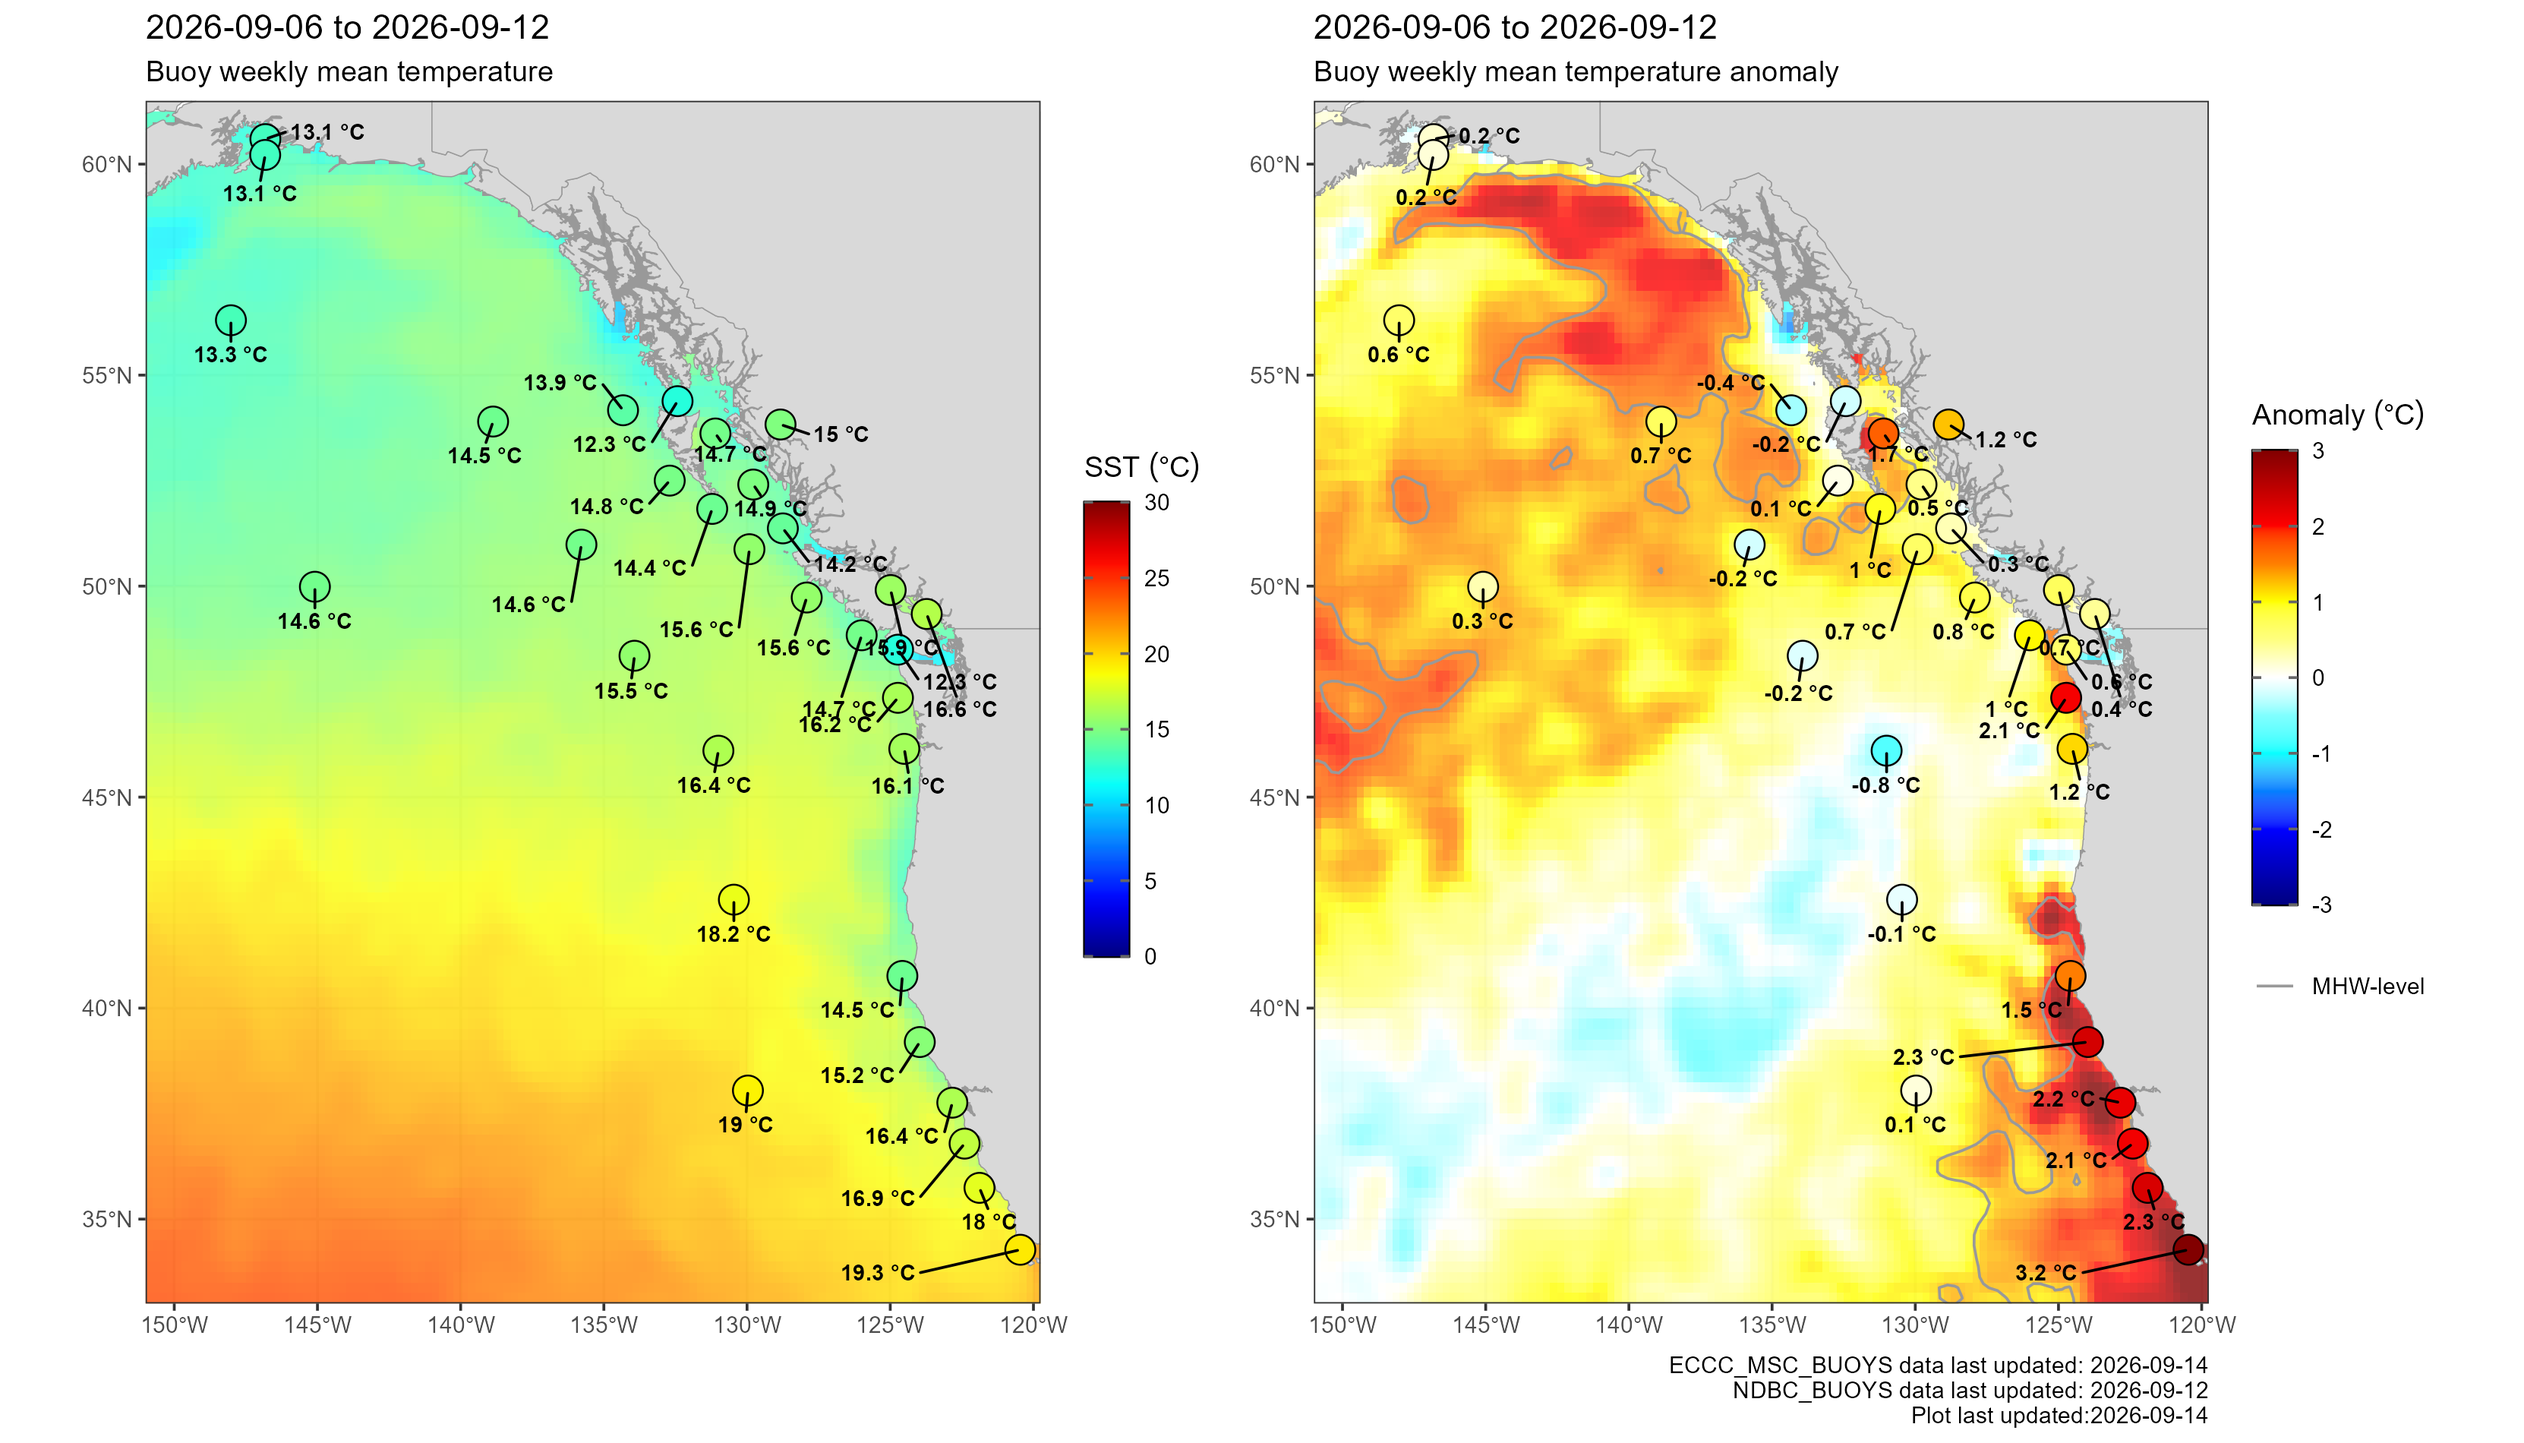
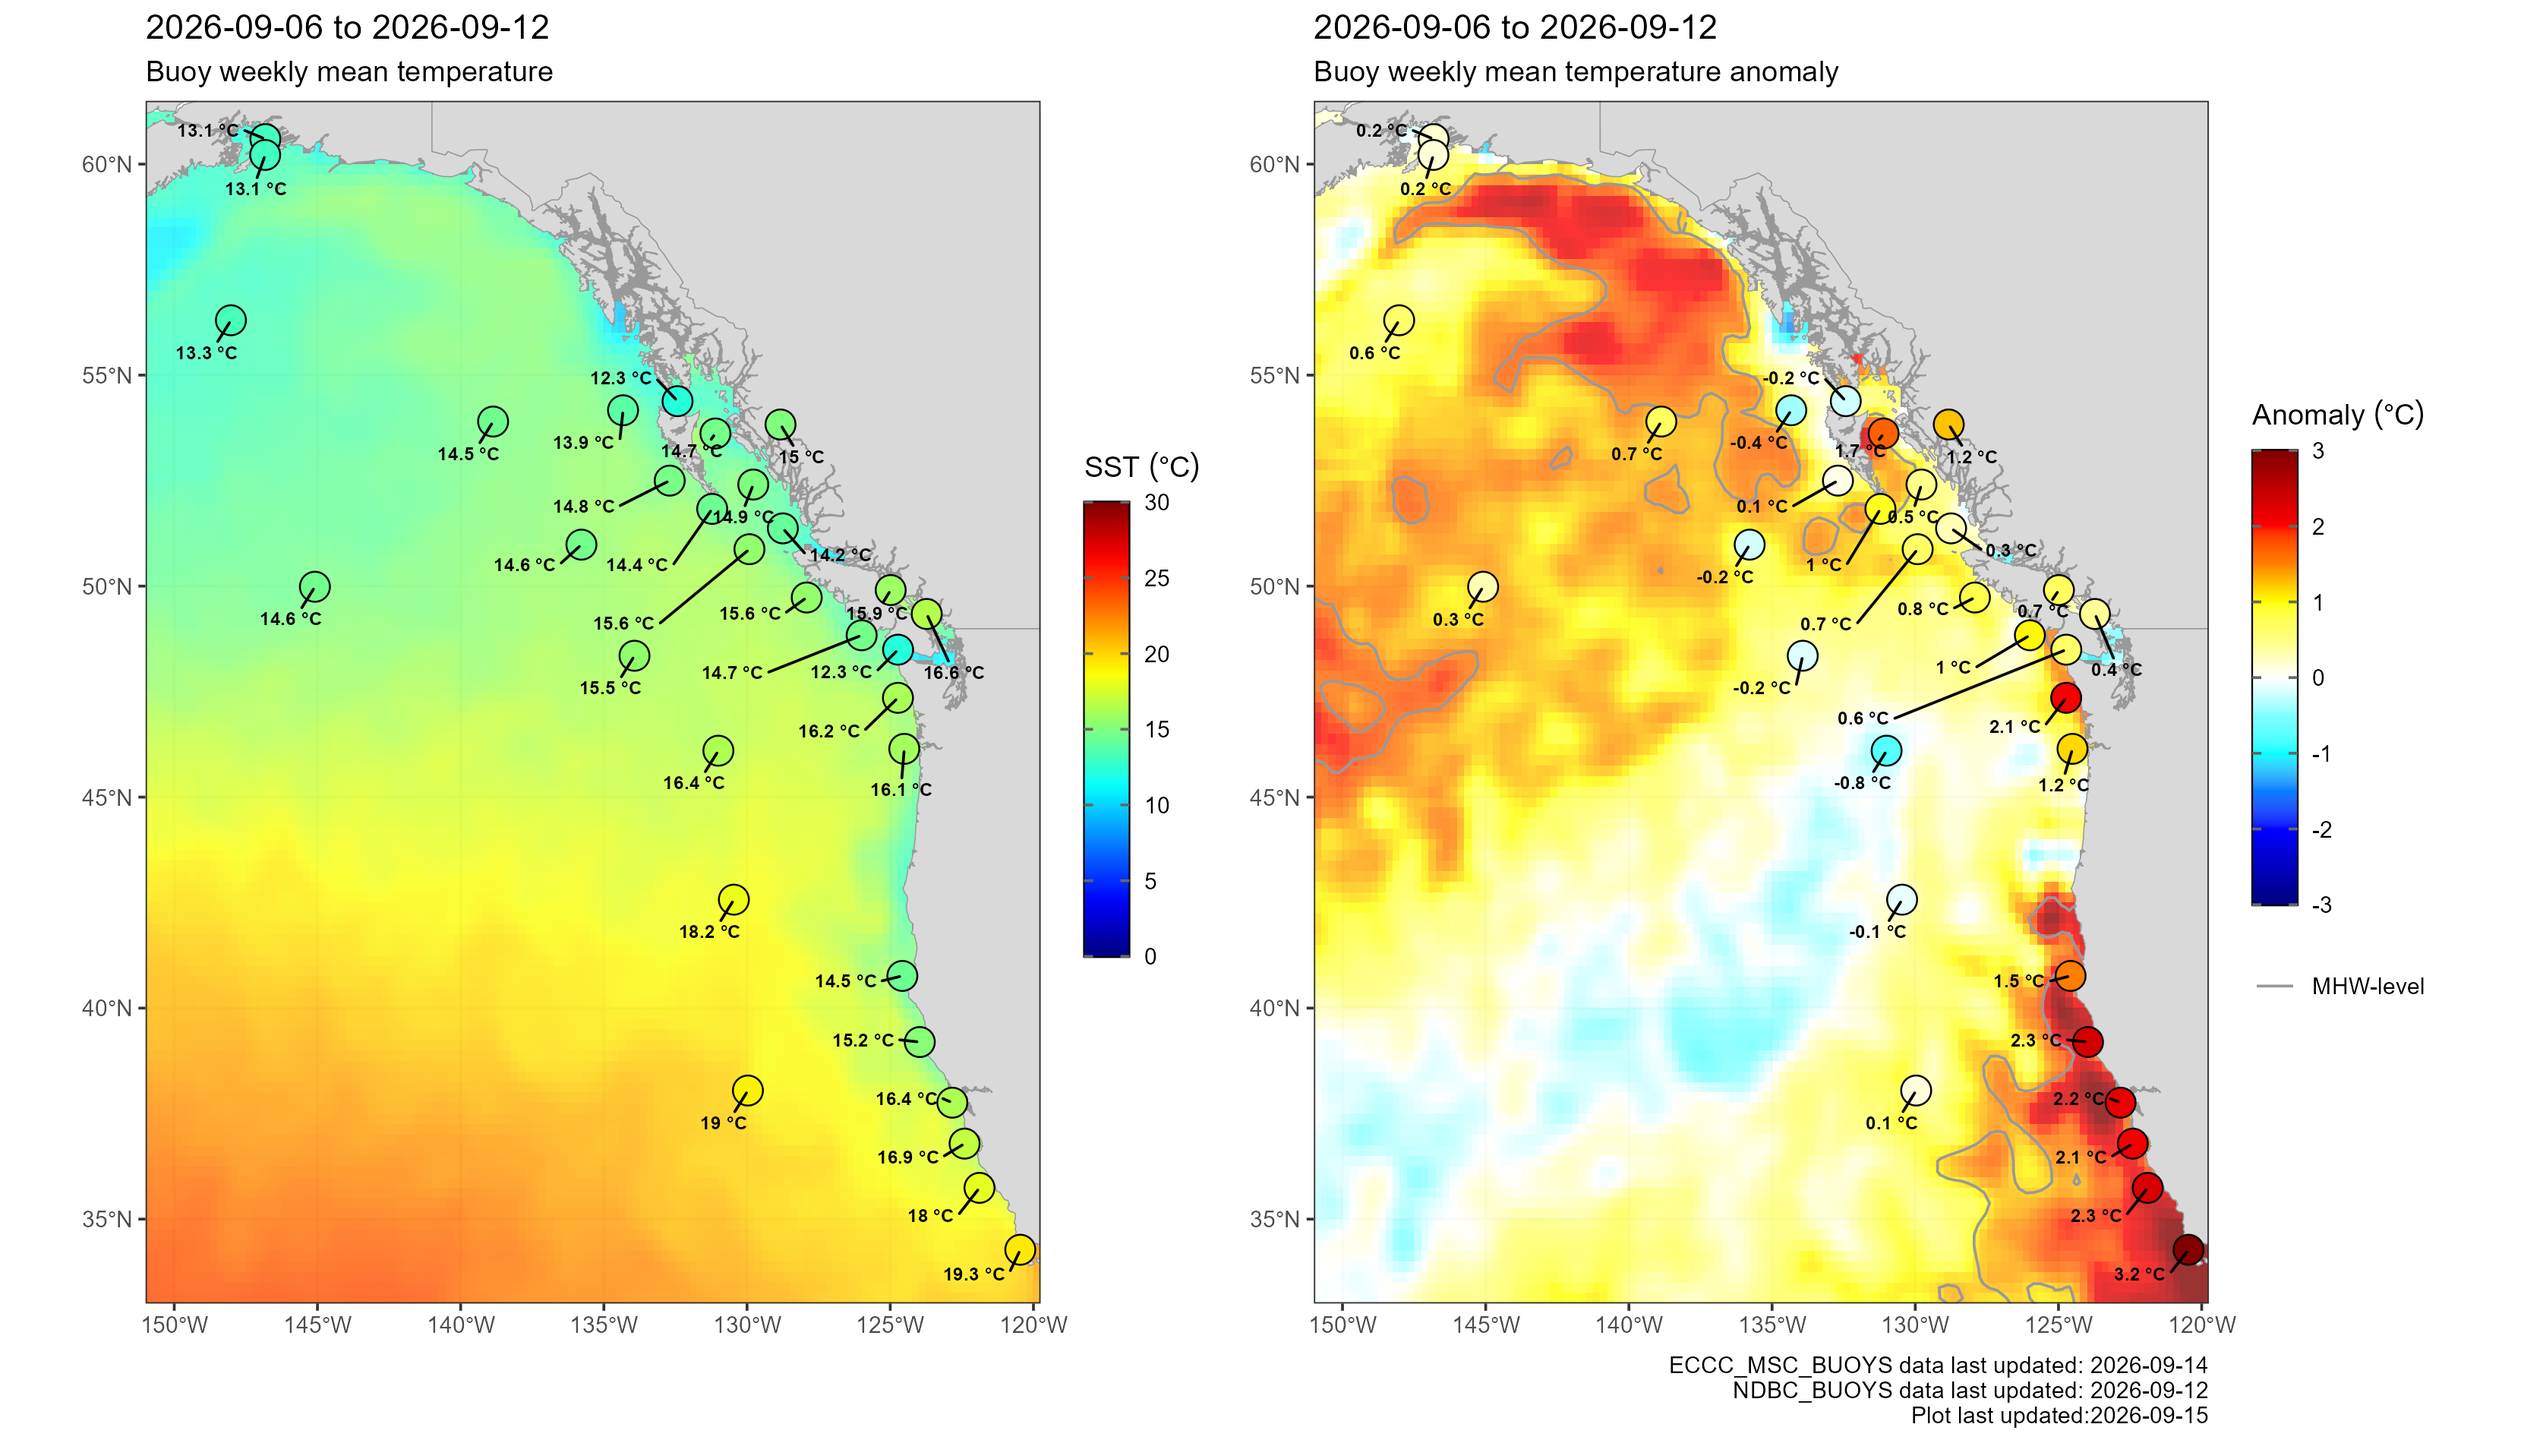
Built site for gh-pages

diff --git a/buoys.html b/buoys.html
@@ -8,7 +8,7 @@
 
 <meta name="author" content="Andrea Hilborn">
 <meta name="author" content="Charles Hannah">
-<meta name="dcterms.date" content="2026-09-14">
+<meta name="dcterms.date" content="2026-09-15">
 
 <title>Buoy temperature in the Canadian EEZ and Northeast Pacific – Pacific SST Monitoring</title>
 <style>
@@ -181,7 +181,7 @@ div.csl-indent {
     <div>
     <div class="quarto-title-meta-heading">Published</div>
     <div class="quarto-title-meta-contents">
-      <p class="date">September 14, 2026</p>
+      <p class="date">September 15, 2026</p>
     </div>
   </div>
   
@@ -248,6 +248,46 @@ div.csl-indent {
 <p><img src="./figures/Buoy_week_SST_7-day_rollingavg.png" class="img-fluid figure-img"></p>
 <figcaption><em>Coloured circles indicate the weekly SST and SST anomaly at buoy locations (see collapsed location map above), averaged to correspond to the OISST maps above. The BC EEZ is indicated with a dashed line, with grey outlines indicating BC Bioregion boundaries.</em></figcaption>
 </figure>
+</div>
+<div class="quarto-layout-panel" data-layout-ncol="2">
+<div class="quarto-layout-row">
+<div class="quarto-layout-cell" style="flex-basis: 50.0%;justify-content: flex-start;">
+<div class="callout callout-style-default callout-note no-icon callout-titled">
+<div class="callout-header d-flex align-content-center" data-bs-toggle="collapse" data-bs-target=".callout-3-contents" aria-controls="callout-3" aria-expanded="true" aria-label="Toggle callout">
+<div class="callout-icon-container">
+<i class="callout-icon no-icon"></i>
+</div>
+<div class="callout-title-container flex-fill">
+<span class="screen-reader-only">Note</span>OISST and buoy comparison
+</div>
+<div class="callout-btn-toggle d-inline-block border-0 py-1 ps-1 pe-0 float-end"><i class="callout-toggle"></i></div>
+</div>
+<div id="callout-3" class="callout-3-contents callout-collapse collapse show">
+<div class="callout-body-container callout-body">
+<p><img src="./figures/Buoy_OISST_diffs_comparison.png" class="img-fluid"></p>
+</div>
+</div>
+</div>
+</div>
+<div class="quarto-layout-cell" style="flex-basis: 50.0%;justify-content: flex-start;">
+<div class="callout callout-style-default callout-note no-icon callout-titled">
+<div class="callout-header d-flex align-content-center" data-bs-toggle="collapse" data-bs-target=".callout-4-contents" aria-controls="callout-4" aria-expanded="true" aria-label="Toggle callout">
+<div class="callout-icon-container">
+<i class="callout-icon no-icon"></i>
+</div>
+<div class="callout-title-container flex-fill">
+<span class="screen-reader-only">Note</span>OISST and buoy anomaly comparison
+</div>
+<div class="callout-btn-toggle d-inline-block border-0 py-1 ps-1 pe-0 float-end"><i class="callout-toggle"></i></div>
+</div>
+<div id="callout-4" class="callout-4-contents callout-collapse collapse show">
+<div class="callout-body-container callout-body">
+<p><img src="./figures/Buoy_OISST_diffs_comparison_anomaly.png" class="img-fluid"></p>
+</div>
+</div>
+</div>
+</div>
+</div>
 </div>
 </section>
 <section id="buoy-sst-and-sst-anomalies" class="level3">
@@ -338,7 +378,7 @@ div.csl-indent {
 </div>
 </div>
 <div class="callout callout-style-default callout-note no-icon callout-titled">
-<div class="callout-header d-flex align-content-center collapsed" data-bs-toggle="collapse" data-bs-target=".callout-3-contents" aria-controls="callout-3" aria-expanded="false" aria-label="Toggle callout">
+<div class="callout-header d-flex align-content-center collapsed" data-bs-toggle="collapse" data-bs-target=".callout-5-contents" aria-controls="callout-5" aria-expanded="false" aria-label="Toggle callout">
 <div class="callout-icon-container">
 <i class="callout-icon no-icon"></i>
 </div>
@@ -347,7 +387,7 @@ div.csl-indent {
 </div>
 <div class="callout-btn-toggle d-inline-block border-0 py-1 ps-1 pe-0 float-end"><i class="callout-toggle"></i></div>
 </div>
-<div id="callout-3" class="callout-3-contents callout-collapse collapse">
+<div id="callout-5" class="callout-5-contents callout-collapse collapse">
 <div class="callout-body-container callout-body">
 <p>The start dates listed here may not correspond with other sources (e.g.&nbsp;the <a href="https://www.pac.dfo-mpo.gc.ca/science/oceans/data-donnees/buoydata-donneebouee/index-eng.html">ECCC website</a>) but represent the data record available at the sources listed above, as of December 2023.</p>
 <p>An up-to-date buoy status report can be viewed here: <a href="https://collaboration.cmc.ec.gc.ca/cmc/wbs/bplatstat.html" class="uri">https://collaboration.cmc.ec.gc.ca/cmc/wbs/bplatstat.html</a></p>
@@ -485,7 +525,7 @@ div.csl-indent {
 <li><strong>Climatology period:</strong> 1991–2020 (where available)</li>
 </ul>
 <div class="callout callout-style-default callout-note no-icon callout-titled">
-<div class="callout-header d-flex align-content-center collapsed" data-bs-toggle="collapse" data-bs-target=".callout-4-contents" aria-controls="callout-4" aria-expanded="false" aria-label="Toggle callout">
+<div class="callout-header d-flex align-content-center collapsed" data-bs-toggle="collapse" data-bs-target=".callout-6-contents" aria-controls="callout-6" aria-expanded="false" aria-label="Toggle callout">
 <div class="callout-icon-container">
 <i class="callout-icon no-icon"></i>
 </div>
@@ -494,7 +534,7 @@ div.csl-indent {
 </div>
 <div class="callout-btn-toggle d-inline-block border-0 py-1 ps-1 pe-0 float-end"><i class="callout-toggle"></i></div>
 </div>
-<div id="callout-4" class="callout-4-contents callout-collapse collapse">
+<div id="callout-6" class="callout-6-contents callout-collapse collapse">
 <div class="callout-body-container callout-body">
 <div class="quarto-figure quarto-figure-center">
 <figure class="figure">
@@ -505,7 +545,7 @@ div.csl-indent {
 </div>
 </div>
 <div class="callout callout-style-default callout-note no-icon callout-titled">
-<div class="callout-header d-flex align-content-center collapsed" data-bs-toggle="collapse" data-bs-target=".callout-5-contents" aria-controls="callout-5" aria-expanded="false" aria-label="Toggle callout">
+<div class="callout-header d-flex align-content-center collapsed" data-bs-toggle="collapse" data-bs-target=".callout-7-contents" aria-controls="callout-7" aria-expanded="false" aria-label="Toggle callout">
 <div class="callout-icon-container">
 <i class="callout-icon no-icon"></i>
 </div>
@@ -514,7 +554,7 @@ div.csl-indent {
 </div>
 <div class="callout-btn-toggle d-inline-block border-0 py-1 ps-1 pe-0 float-end"><i class="callout-toggle"></i></div>
 </div>
-<div id="callout-5" class="callout-5-contents callout-collapse collapse">
+<div id="callout-7" class="callout-7-contents callout-collapse collapse">
 <div class="callout-body-container callout-body">
 <div class="quarto-figure quarto-figure-center">
 <figure class="figure">
@@ -546,12 +586,12 @@ Kellogg, J., Rosenstock, N., Page, S., Hourston, R., Devred, E., and Hannah, C. 
   author = {Hilborn, Andrea and Hannah, Charles},
   title = {Buoy Temperature in the {Canadian} {EEZ} and {Northeast}
     {Pacific}},
-  date = {2026-09-14},
+  date = {2026-09-15},
   url = {https://ios-osd-dpg.github.io/Pacific_SST_Monitoring_Site/},
   langid = {en}
 }
 </code><button title="Copy to Clipboard" class="code-copy-button"><i class="bi"></i></button></pre><div class="quarto-appendix-secondary-label">For attribution, please cite this work as:</div><div id="ref-hilborn2026" class="csl-entry quarto-appendix-citeas" role="listitem">
-Hilborn, A., and Hannah, C. 2026, September 14. Buoy temperature in the
+Hilborn, A., and Hannah, C. 2026, September 15. Buoy temperature in the
 Canadian EEZ and Northeast Pacific. Available from <a href="https://ios-osd-dpg.github.io/Pacific_SST_Monitoring_Site/">https://ios-osd-dpg.github.io/Pacific_SST_Monitoring_Site/</a>.
 </div></div></section></div></main> <!-- /main -->
 <script id="quarto-html-after-body" type="application/javascript">

diff --git a/index.html b/index.html
@@ -9,7 +9,7 @@
 <meta name="author" content="Andrea Hilborn">
 <meta name="author" content="Charles Hannah">
 <meta name="author" content="Lu Guan">
-<meta name="dcterms.date" content="2026-09-14">
+<meta name="dcterms.date" content="2026-09-15">
 
 <title>Sea surface temperature in the Northeast Pacific – Pacific SST Monitoring</title>
 <style>
@@ -185,7 +185,7 @@ div.csl-indent {
     <div>
     <div class="quarto-title-meta-heading">Published</div>
     <div class="quarto-title-meta-contents">
-      <p class="date">September 14, 2026</p>
+      <p class="date">September 15, 2026</p>
     </div>
   </div>
   
@@ -380,12 +380,12 @@ Schlegel, R.W., Darmaraki, S., Benthuysen, J.A., Filbee-Dexter, K., and Oliver, 
 </div></section><section class="quarto-appendix-contents" id="quarto-citation"><h2 class="anchored quarto-appendix-heading">Citation</h2><div><div class="quarto-appendix-secondary-label">BibTeX citation:</div><pre class="sourceCode code-with-copy quarto-appendix-bibtex"><code class="sourceCode bibtex">@online{hilborn2026,
   author = {Hilborn, Andrea and Hannah, Charles and Guan, Lu},
   title = {Sea Surface Temperature in the {Northeast} {Pacific}},
-  date = {2026-09-14},
+  date = {2026-09-15},
   url = {https://ios-osd-dpg.github.io/Pacific_SST_Monitoring_Site/},
   langid = {en}
 }
 </code><button title="Copy to Clipboard" class="code-copy-button"><i class="bi"></i></button></pre><div class="quarto-appendix-secondary-label">For attribution, please cite this work as:</div><div id="ref-hilborn2026" class="csl-entry quarto-appendix-citeas" role="listitem">
-Hilborn, A., Hannah, C., and Guan, L. 2026, September 14. Sea surface
+Hilborn, A., Hannah, C., and Guan, L. 2026, September 15. Sea surface
 temperature in the Northeast Pacific. Available from <a href="https://ios-osd-dpg.github.io/Pacific_SST_Monitoring_Site/">https://ios-osd-dpg.github.io/Pacific_SST_Monitoring_Site/</a>.
 </div></div></section></div></main> <!-- /main -->
 <script id="quarto-html-after-body" type="application/javascript">
